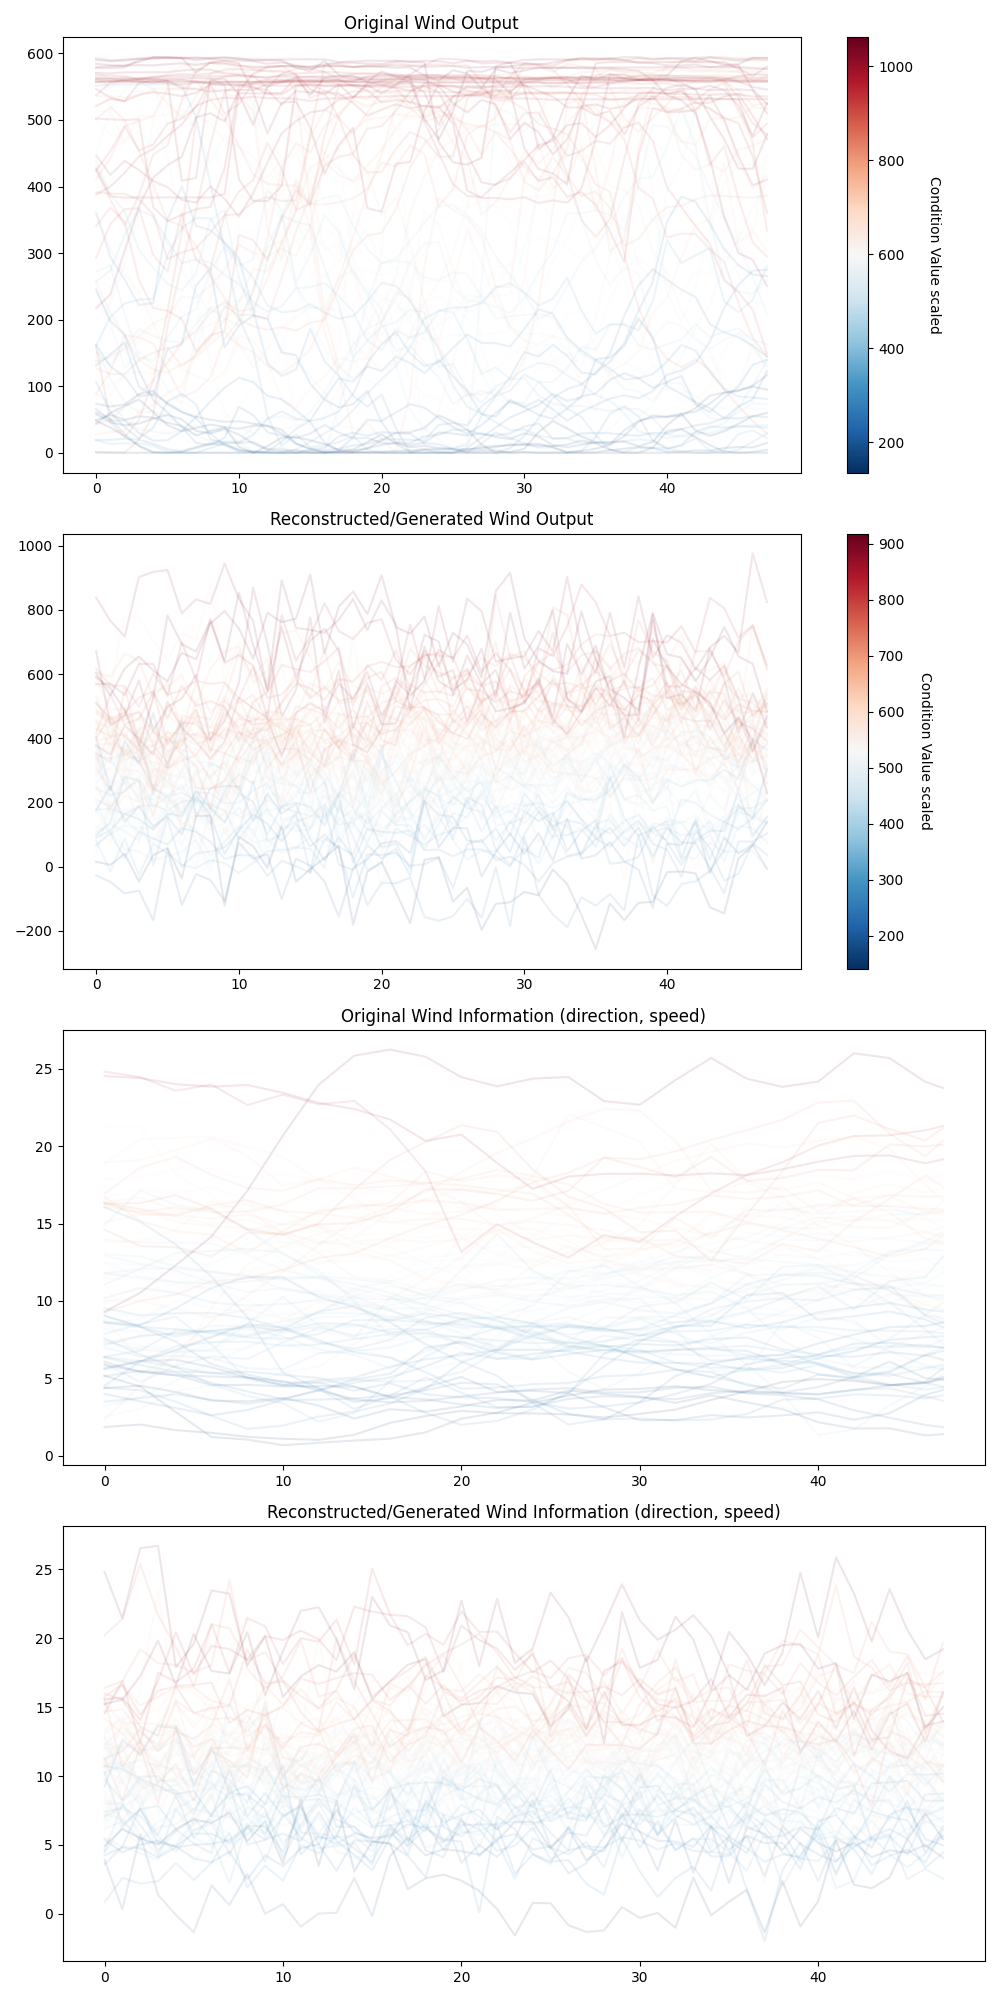
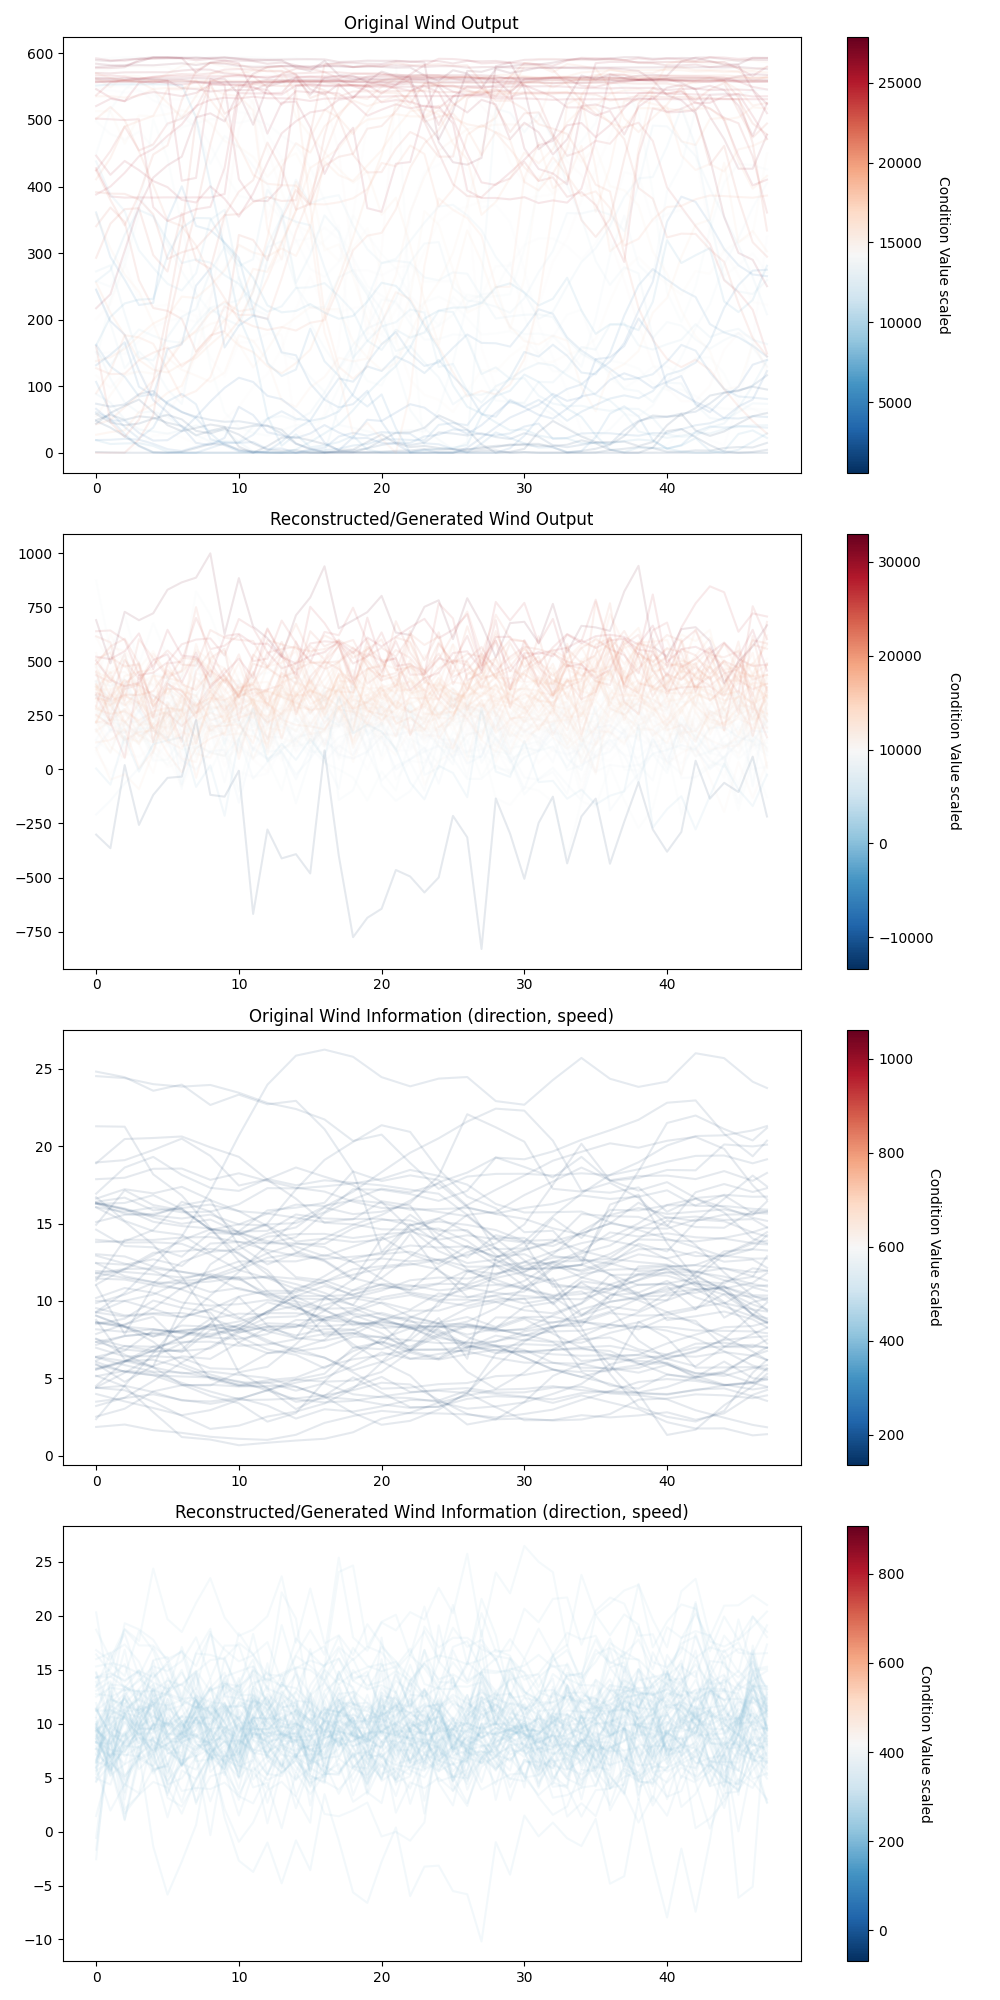
correct plot

diff --git a/data_augmentation/FCPFlow/tools/tools_train.py b/data_augmentation/FCPFlow/tools/tools_train.py
@@ -60,28 +60,28 @@ def plot_figure(pre, re_data, scaler, con_dim, path='Generated Data Comparison.p
         _cond_pre = orig_data_pre[:, 49:-con_dim-1].sum(axis=1)
         for i, condition in zip(orig_data_pre[:, 49:-con_dim-1], _cond_pre):
             color = cmap((condition - _cond_pre.min()) / (_cond_pre.max() - _cond_pre.min()))
-            axs[0].plot(i, color=color, alpha=0.1)
+            axs[0].plot(i, color=color, alpha=0.3)
         axs[0].set_title('Original Wind Output')
         
         # Reconstructed/Generated data plot
         _cond_re = orig_data_re[:, 49:-con_dim-1].sum(axis=1)
         for i, condition in zip(orig_data_re[:, 49:-con_dim-1], _cond_re):
             color = cmap((condition - _cond_re.min()) / (_cond_re.max() - _cond_re.min()))
-            axs[1].plot(i, color=color, alpha=0.1)
+            axs[1].plot(i, color=color, alpha=0.3)
         axs[1].set_title('Reconstructed/Generated Wind Output')
         
         # Original data plot
         _cond_pre_w = orig_data_pre[:, :48].sum(axis=1)
         for i, condition in zip(orig_data_pre[:, :48], _cond_pre_w):
             color = cmap((condition - _cond_pre.min()) / (_cond_pre.max() - _cond_pre.min()))
-            axs[2].plot(i, color=color, alpha=0.1)
+            axs[2].plot(i, color=color, alpha=0.3)
         axs[2].set_title('Original Wind Information (direction, speed)')
         
         # Reconstructed/Generated data plot
         _cond_re_w = orig_data_re[:, :48].sum(axis=1)
         for i, condition in zip(orig_data_re[:, :48], _cond_re_w):
             color = cmap((condition - _cond_re.min()) / (_cond_re.max() - _cond_re.min()))
-            axs[3].plot(i, color=color, alpha=0.1)
+            axs[3].plot(i, color=color, alpha=0.3)
         axs[3].set_title('Reconstructed/Generated Wind Information (direction, speed)')
         
         
